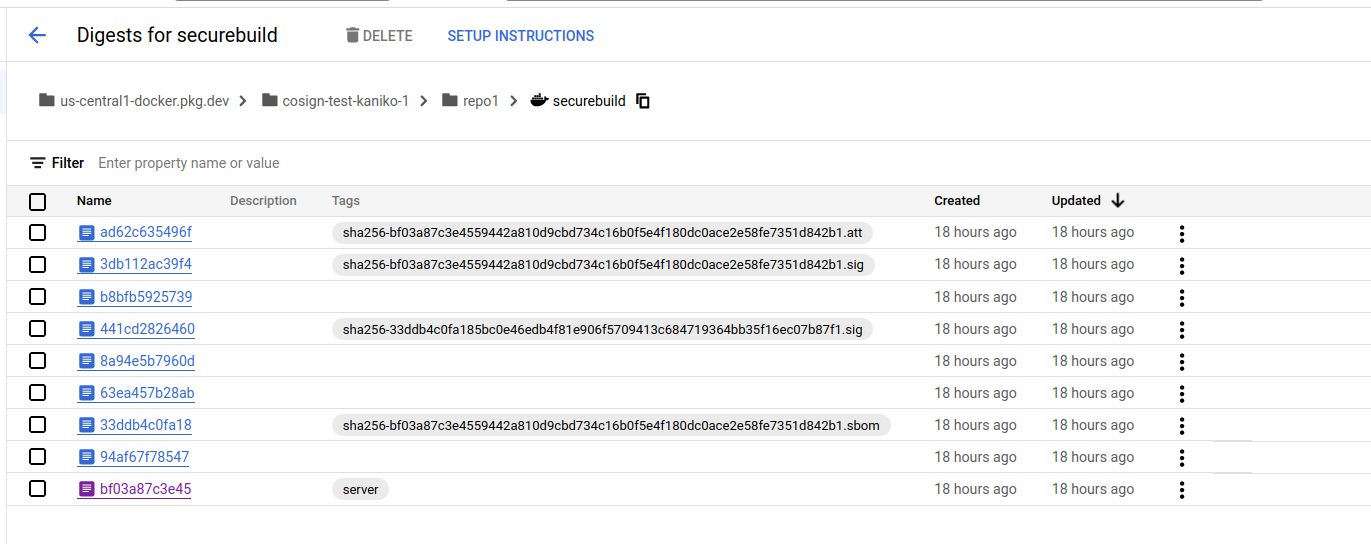
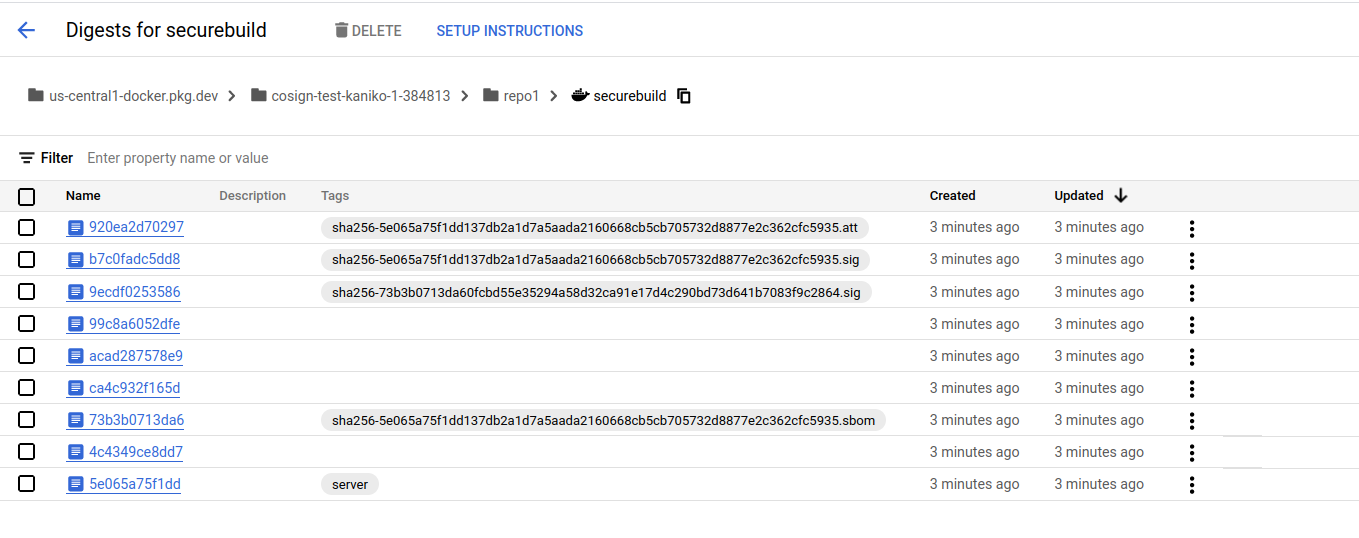
update sha

diff --git a/README.md b/README.md
@@ -15,8 +15,8 @@ Set this flag to strip timestamps out of the built image and make it reproducibl
 ```
 
 This will create a consistent image hash:
-
-* `securebuild-kaniko@sha256:bf03a87c3e4559442a810d9cbd734c16b0f5e4f180dc0ace2e58fe7351d842b1`
+ 
+* `securebuild-kaniko@sha256:5e065a75f1dd137db2a1d7a5aada2160668cb5cb705732d8877e2c362cfc5935`
 
 In this tutorial, we will:
 
@@ -70,7 +70,7 @@ export PROJECT_ID=`gcloud config get-value core/project`
 export PROJECT_NUMBER=`gcloud projects describe $PROJECT_ID --format='value(projectNumber)'`
 echo $PROJECT_ID
 
-## the projectID i used for this demo is PROJECT_ID=cosign-test-kaniko-1
+## the projectID i used for this demo is PROJECT_ID=cosign-test-kaniko-1-384813
 
 gcloud auth application-default login
 
@@ -137,7 +137,7 @@ gsutil iam ch serviceAccount:cosign@$PROJECT_ID.iam.gserviceaccount.com:objectAd
 ### Build image
 
 ```bash
-# cd /app
+cd /app
 gcloud beta builds submit --config=cloudbuild.yaml --machine-type=n1-highcpu-32
 
 # optionally create the application sbom and sign it with the same cosign keypair
@@ -168,13 +168,13 @@ gcloud kms keys versions get-public-key 1  \
 
 # verify using the local key 
 cosign verify --key kms_pub.pem   \
-   us-central1-docker.pkg.dev/$PROJECT_ID/repo1/securebuild@sha256:bf03a87c3e4559442a810d9cbd734c16b0f5e4f180dc0ace2e58fe7351d842b1  | jq '.'
+   us-central1-docker.pkg.dev/$PROJECT_ID/repo1/securebuild@sha256:5e065a75f1dd137db2a1d7a5aada2160668cb5cb705732d8877e2c362cfc5935  | jq '.'
 
 # or by api
 cosign verify --key gcpkms://projects/$PROJECT_ID/locations/global/keyRings/cosignkr/cryptoKeys/key1/cryptoKeyVersions/1 \
-      us-central1-docker.pkg.dev/$PROJECT_ID/repo1/securebuild@sha256:bf03a87c3e4559442a810d9cbd734c16b0f5e4f180dc0ace2e58fe7351d842b1 | jq '.'
+      us-central1-docker.pkg.dev/$PROJECT_ID/repo1/securebuild@sha256:5e065a75f1dd137db2a1d7a5aada2160668cb5cb705732d8877e2c362cfc5935 | jq '.'
 
-Verification for us-central1-docker.pkg.dev/cosign-test-kaniko-1/repo1/securebuild@sha256:bf03a87c3e4559442a810d9cbd734c16b0f5e4f180dc0ace2e58fe7351d842b1 --
+Verification for us-central1-docker.pkg.dev/cosign-test-kaniko-1-384813/repo1/securebuild@sha256:5e065a75f1dd137db2a1d7a5aada2160668cb5cb705732d8877e2c362cfc5935 --
 The following checks were performed on each of these signatures:
   - The cosign claims were validated
   - The signatures were verified against the specified public key
@@ -182,10 +182,10 @@ The following checks were performed on each of these signatures:
   {
     "critical": {
       "identity": {
-        "docker-reference": "us-central1-docker.pkg.dev/cosign-test-kaniko-1/repo1/securebuild"
+        "docker-reference": "us-central1-docker.pkg.dev/cosign-test-kaniko-1-384813/repo1/securebuild"
       },
       "image": {
-        "docker-manifest-digest": "sha256:bf03a87c3e4559442a810d9cbd734c16b0f5e4f180dc0ace2e58fe7351d842b1"
+        "docker-manifest-digest": "sha256:5e065a75f1dd137db2a1d7a5aada2160668cb5cb705732d8877e2c362cfc5935"
       },
       "type": "cosign container image signature"
     },
@@ -197,19 +197,22 @@ The following checks were performed on each of these signatures:
 
 
 
-COSIGN_EXPERIMENTAL=1  cosign verify  us-central1-docker.pkg.dev/$PROJECT_ID/repo1/securebuild@sha256:bf03a87c3e4559442a810d9cbd734c16b0f5e4f180dc0ace2e58fe7351d842b1 | jq '.'
+COSIGN_EXPERIMENTAL=1  cosign verify  us-central1-docker.pkg.dev/$PROJECT_ID/repo1/securebuild@sha256:5e065a75f1dd137db2a1d7a5aada2160668cb5cb705732d8877e2c362cfc5935 | jq '.'
 
 
 rekor-cli search --rekor_server https://rekor.sigstore.dev \
    --sha  05066f8e20a18df98be5050789b8935891908a921e3aabeed2d0378f1c236d88
+    Found matching entries (listed by UUID):
[1 lines of base64/hex data omitted]
+
 
 ## note, ifyou wanted to use the project ID is used in this repo to upload to rekor, set export PROJECT_ID=cosign-test-kaniko
 rekor-cli search --rekor_server https://rekor.sigstore.dev  --email cosign@$PROJECT_ID.iam.gserviceaccount.com
 
 Found matching entries (listed by UUID):
[6 lines of base64/hex data omitted]
 ```
 
 
@@ -217,10 +220,10 @@ custom predicate
 
 ```bash
 rekor-cli get --rekor_server https://rekor.sigstore.dev \
-   --uuid 24296fb24b8ad77a868630095549dbe5dcbae06f9f447ba0c7817908ce1d782c93a4440226e15e29
+   --uuid 24296fb24b8ad77a6802c1ef56671cfb7f1df54a56914eeb5f7618b0906459f0f45135eebc52e8e2
 
 LogID: c0d23d6ad406973f9559f3ba2d1ca01f84147d8ffc5b8445c224f98b9591801d
[2 lines of base64/hex data omitted]
 Index: 18669807
 IntegratedTime: 2023-04-22T19:56:23Z
 UUID: 24296fb24b8ad77a868630095549dbe5dcbae06f9f447ba0c7817908ce1d782c93a4440226e15e29
@@ -243,7 +246,7 @@ Body: {
 
 ```bash
 rekor-cli get --rekor_server https://rekor.sigstore.dev \
-   --uuid 24296fb24b8ad77abac2456499de9294a85a697e4ef17ae8d2693aa6b7e875f89745044385131e1c     
+   --uuid 24296fb24b8ad77a13b7e3f46e69cdb3b7ffef0b0d1c5e48e5cb5480e08ab1fa4528a9a0f1529f11     
 
 LogID: c0d23d6ad406973f9559f3ba2d1ca01f84147d8ffc5b8445c224f98b9591801d
 Index: 18669804
@@ -271,53 +274,51 @@ attestation with sbom.  Note the kaniko attestation here includes the full cyclo
 
 ```bash
 rekor-cli get --rekor_server https://rekor.sigstore.dev \
-   --uuid 24296fb24b8ad77af174e0898b660977bf7edcd85e714b120e158ee7ce7d144b9500de5602665516         
+   --uuid 24296fb24b8ad77a61fa48c55a19124687ede29f830a6478d0316128ed4785cefcbde5d1423275e8         
 
 LogID: c0d23d6ad406973f9559f3ba2d1ca01f84147d8ffc5b8445c224f98b9591801d
[1 lines of base64/hex data omitted]
-Index: 18669803
-IntegratedTime: 2023-04-22T19:56:20Z
-UUID: 24296fb24b8ad77af174e0898b660977bf7edcd85e714b120e158ee7ce7d144b9500de5602665516
[1 lines of base64/hex data omitted]
+Index: 18896193
+IntegratedTime: 2023-04-25T13:11:05Z
+UUID: 24296fb24b8ad77a61fa48c55a19124687ede29f830a6478d0316128ed4785cefcbde5d1423275e8
 Body: {
   "IntotoObj": {
     "content": {
       "hash": {
         "algorithm": "sha256",
[2 lines of base64/hex data omitted]
       },
       "payloadHash": {
         "algorithm": "sha256",
[2 lines of base64/hex data omitted]
       }
     },
[2 lines of base64/hex data omitted]
   }
 }
-
 ```
 
 where in my case the public key from the rekor entry is
 
 ```
 -----BEGIN CERTIFICATE-----
[16 lines of base64/hex data omitted]
-Q83/BWYQLv7y2on0NYVV1Z7Ym3gXClKd2afCEw/maA==
[13 lines of base64/hex data omitted]
+g+sNXVxM9w+HQ6hbvqdvte+rHfwSjiqCp63fo+oMF3+G49658qO3MA==
 -----END CERTIFICATE-----
-
 ```
 
 
@@ -330,22 +331,22 @@ Certificate:
     Data:
         Version: 3 (0x2)
         Serial Number:
-            07:ef:f7:23:34:e4:52:55:73:61:70:47:ba:a7:0e:7a:43:0a:78:c4
+            25:03:02:19:5c:9f:2b:16:8b:86:5f:1e:7b:6d:f7:b2:4f:aa:7d:7d
         Signature Algorithm: ecdsa-with-SHA384
         Issuer: O = sigstore.dev, CN = sigstore-intermediate
         Validity
-            Not Before: Apr 22 19:56:19 2023 GMT
-            Not After : Apr 22 20:06:19 2023 GMT
+            Not Before: Apr 25 13:11:04 2023 GMT
+            Not After : Apr 25 13:21:04 2023 GMT
         Subject: 
         Subject Public Key Info:
             Public Key Algorithm: id-ecPublicKey
                 Public-Key: (256 bit)
                 pub:
-                    04:13:a9:1f:07:c8:f3:ca:f3:7b:a9:de:02:0c:f2:
-                    1d:2e:b1:dc:5f:2f:a1:ba:4c:c3:b0:b7:81:22:6e:
-                    e0:56:25:6c:f1:18:8f:dd:1f:be:8f:5e:b1:90:67:
-                    10:32:74:98:9c:93:b0:f6:3b:d9:54:a3:88:d6:3d:
-                    9c:49:40:27:62
+                    04:f0:6d:56:28:af:4a:01:b5:1f:bf:13:c8:16:bd:
+                    91:25:1d:a4:d6:a2:31:83:2d:f7:19:50:74:a2:16:
+                    d8:99:fe:5b:59:83:4c:1c:b5:64:c5:85:35:01:93:
+                    82:04:7a:8b:74:cf:02:da:98:0a:3b:aa:9b:60:d4:
+                    ce:07:3a:50:43
                 ASN1 OID: prime256v1
                 NIST CURVE: P-256
         X509v3 extensions:
@@ -354,11 +355,11 @@ Certificate:
             X509v3 Extended Key Usage: 
                 Code Signing
             X509v3 Subject Key Identifier: 
-                41:EE:DA:D1:BD:BC:33:50:F4:8A:BD:20:90:4E:6E:8F:F6:C0:35:58
+                94:41:C6:0E:BB:C3:3F:2E:8D:A3:5A:8A:E1:3B:99:87:67:2E:F2:4B
             X509v3 Authority Key Identifier: 
                 DF:D3:E9:CF:56:24:11:96:F9:A8:D8:E9:28:55:A2:C6:2E:18:64:3F
             X509v3 Subject Alternative Name: critical
-                email:cosign@cosign-test-kaniko-1.iam.gserviceaccount.com
+                email:cosign@cosign-test-kaniko-1-384813.iam.gserviceaccount.com          <<<<<<<<<<<<<<<<<<<<<<<<<<<<<<<<<<<<<<<<<<
             1.3.6.1.4.1.57264.1.1: 
                 https://accounts.google.com
             1.3.6.1.4.1.57264.1.8: 
@@ -368,13 +369,20 @@ Certificate:
                     Version   : v1 (0x0)
                     Log ID    : DD:3D:30:6A:C6:C7:11:32:63:19:1E:1C:99:67:37:02:
                                 A2:4A:5E:B8:DE:3C:AD:FF:87:8A:72:80:2F:29:EE:8E
-                    Timestamp : Apr 22 19:56:19.257 2023 GMT
+                    Timestamp : Apr 25 13:11:04.653 2023 GMT
                     Extensions: none
                     Signature : ecdsa-with-SHA256
-                                30:45:02:20:2E:81:A1:49:8D:F1:06:59:30:67:6B:7F:
-                                B9:C5:DE:28:01:21:3C:81:CB:0D:1F:B1:5C:8D:35:92:
-                                E7:84:9E:65:02:21:00:DA:BF:80:BB:43:A5:6B:96:74:
-                                23:6B:49:7D:FA:C8:A3:08:84:D3:9B:42:64:B8:BA:FE:
-                                36:72:B3:49:15:D2:46
-
+                                30:45:02:21:00:BF:E3:92:BC:1B:1F:5E:1E:9E:03:B3:
+                                16:F2:6B:15:20:9B:33:4F:EE:4C:09:F5:D0:0A:C3:1C:
+                                4A:16:47:C8:4E:02:20:04:AE:00:F6:53:94:08:56:CE:
+                                57:9D:FA:E9:AB:6C:EA:63:47:65:81:5C:4F:AA:E2:6D:
+                                DA:65:2C:F2:90:14:01
+    Signature Algorithm: ecdsa-with-SHA384
+    Signature Value:
+        30:66:02:31:00:bb:ed:da:0d:a9:3c:98:29:0f:26:52:c8:3c:
+        c4:cd:db:a4:99:34:52:e2:4f:10:29:56:ae:52:23:3e:5b:fe:
+        fb:c7:62:d4:0f:bb:e1:61:a3:a6:e4:ab:76:ab:98:02:35:02:
+        31:00:a4:10:db:3d:96:57:0f:aa:83:eb:0d:5d:5c:4c:f7:0f:
+        87:43:a8:5b:be:a7:6f:b5:ef:ab:1d:fc:12:8e:2a:82:a7:ad:
+        df:a3:ea:0c:17:7f:86:e3:de:b9:f2:a3:b7:30
 ```
